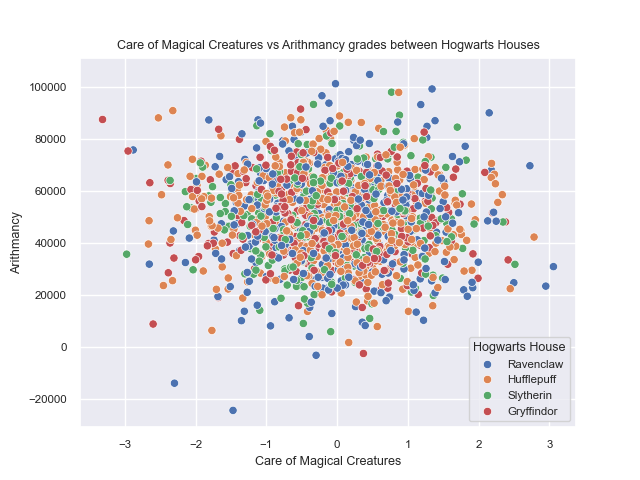
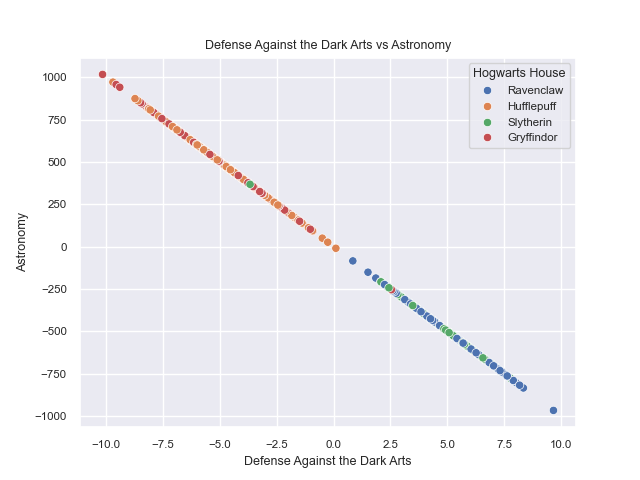
(fix): Change scatter_plot to similar features

diff --git a/srcs/scatter_plot.py b/srcs/scatter_plot.py
@@ -23,7 +23,7 @@ def save_scatter_plot(x: str, y: str) -> None:
         hue="Hogwarts House",
         hue_order=["Ravenclaw", "Hufflepuff", "Slytherin", "Gryffindor"]
         ).set_title(
-            "Arithmancy vs Care of Magical Creatures grades between Hogwarts Houses",
+            "Defense Against the Dark Arts vs Astronomy",
             loc="center"
             )
     fig = sns_plot.get_figure()
@@ -31,4 +31,4 @@ def save_scatter_plot(x: str, y: str) -> None:
 
 
 if __name__ == "__main__":
-    save_scatter_plot(x="Care of Magical Creatures", y="Arithmancy")
+    save_scatter_plot(x="Defense Against the Dark Arts", y="Astronomy")